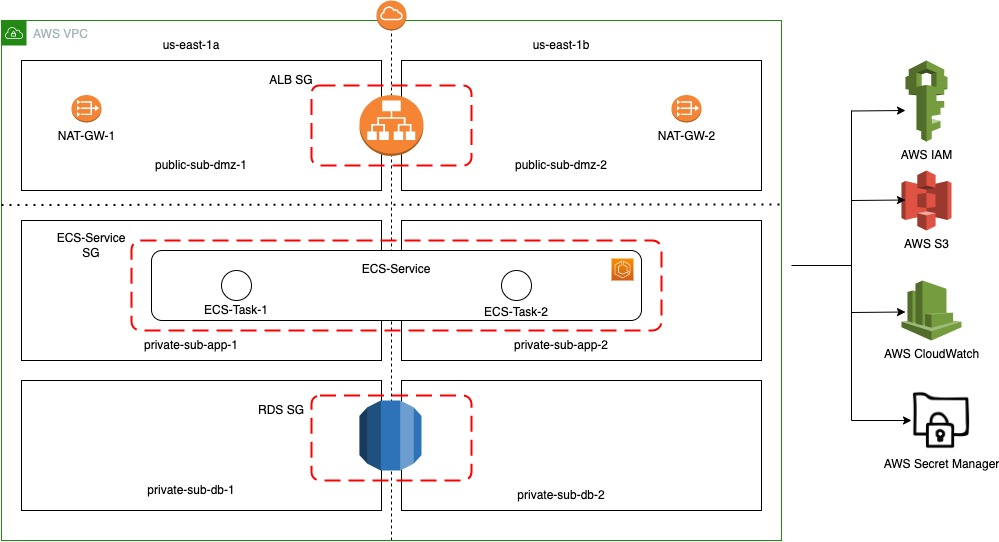
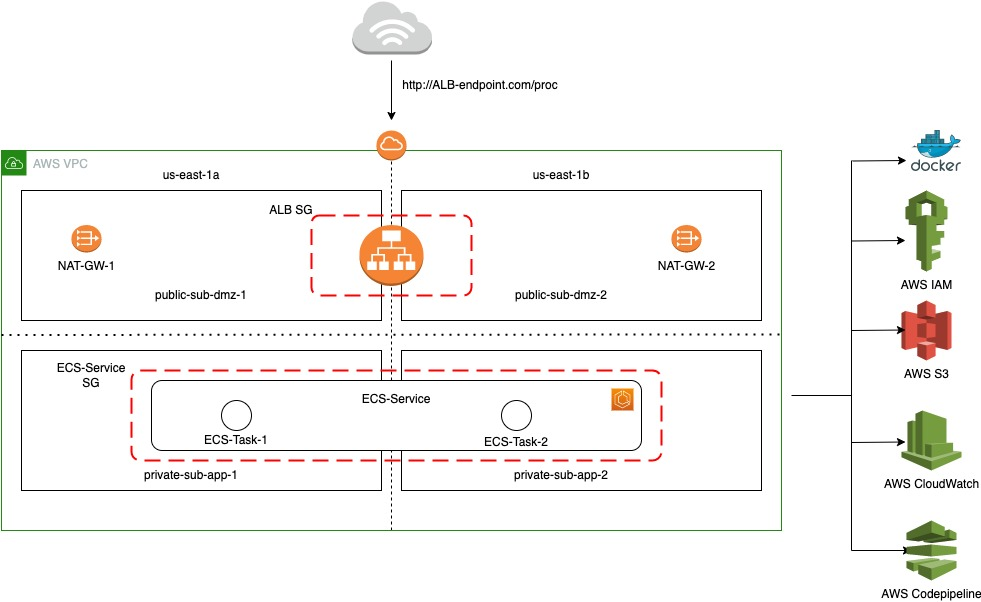
adding documentation chanages

diff --git a/README.md b/README.md
@@ -1,4 +1,4 @@
-# Servian: Tech Challenge
+# Enea: Tech Challenge
 
 ## Solution design and deployment diagram
 
@@ -9,15 +9,18 @@
 - Terraform 
 - GitHub
 - AWS
+- Docker
 ```
 - AWS VPC
 - AWS ECS
 - AWS EC2 (ALB)
 - AWS S3
 - AWS IAM
-- AWS Secret Manager
 - AWS RDS
 - AWS CloudWatch
+- AWS Codepipeline
+- AWS Code Build
+- AWS Code Deploy
 ```
  Above mentioned AWS services are selected to design and deploy this web application considering complexity to design, implement and operational overhead. Basic security features are implemented in this solution at this stage. However, there are things that we can improve for enhancing the security, performance and cost saving aspects which discuss under the improvement section.
 
@@ -29,6 +32,7 @@
  - AWS SecretManager - Secret Manager is used to store and maintain database user password which is referred by the web application.
  - AWS RDS - RDS is used for HA enabled database instance (Multi AZ).
  - AWS Cloudwatch - Cloudwatch is used to handling monitoring metrics, logs and alarms. 
+ - AWS Codepipeline - Code pipeline is used for setup a CI/CD pipeline using AWS Code Build and AWS Code Deploy along with Github
 
 ## How to run?
 
@@ -77,13 +81,22 @@ Please use below mentioned steps to deploy cloud infrasture for this solution on
 1. Clone the GitHub repo.
 2. If you need to update the default values mentioned in the terraform.tfvars file, please update them in terraform.tfvars file.
 ```
-project               = "testapp"
+project               = "samplewebapp"
 environment           = "dev"
 region                = "us-east-1"
 availability_zones    = ["us-east-1a", "us-east-1b"]
-vpc_cidr              = "10.0.0.0/16"
-public_subnets_cidr   = ["10.0.0.0/24", "10.0.1.0/24"] //List of Public subnet cidr range
-private_subnets_cidr  = ["10.0.10.0/24", "10.0.11.0/24"] //List of private subnet cidr range
+vpc_cidr              = "10.92.0.0/16"
+public_subnets_cidr   = ["10.92.0.0/24", "10.92.1.0/24"] //List of Public subnet cidr range
+private_subnets_cidr  = ["10.92.10.0/24", "10.92.11.0/24"] //List of private subnet cidr range
+
+imageurl              = "isuruwic/simple-webservice:v2"  // Base Docker Image for the web app
+codebucket            = "tfstatebucket" // S3 Bucket for storing tfstate file
+codebucket_arn        = "arn:aws:s3:::cicdbucket"  // S3 bucket for CI/CD pipeline related files
+docker_user           = "xxxxxxxxx" // Username for docker.io registry
+docker_password       = "xxxxxxxxx" // Password for docker.io registry
+git_repo              = "isuru-yasantha/sample-web-app" // python web app git repo
+docker_registry_uri   = "isuruwic/simple-webservice" // Docker registy URI
+gitconnect_arn        = "GIT_CONNECTION_ARN" // ARN of the Github version 2 connection in AWS codepipeline
 ```
 2. Provide executable permissions to the env-creation.sh 
 ```chmod +x env-creation.sh```
@@ -111,13 +124,20 @@ This Terraform script creates below resources,
 - ALB and Target group
 - ECS cluster, Tasks and Service
 - RDS instance
-- Secret Manager entry
+- Code pipeline with build and deploy stages
 
 After succesful execution of the script, you will get an ALB DNS endpoint as an output below. Please use the output DNS entry to access the web appliaction using a web browser. 
 
-```Ex: alb_endpoint = "testapp-dev-alb-101191681.us-east-1.elb.amazonaws.com"```
+```Ex: alb_endpoint = "lb_endpoint = "samplewebapp-dev-alb-186999999.us-east-1.elb.amazonaws.com""```
 
-![Blank diagram](https://github.com/isuru-yasantha/assignment/blob/663cb1b24bf99e855eda332eb4563447b680793b/images/app.png)
+Sample CURLS commands with outputs
+
+`` Health Check ``
+``` curl http://samplewebapp-dev-alb-186999999.us-east-1.elb.amazonaws.com --> Healthy%```
+
+`` Sample CURL command to add few numbers``
+``` curl -d '{"sum of the numbers: " : [1, 100, 3,12]}' -H "Content-Type: application/json" -X POST http://samplewebapp-dev-alb-1869999999.us-east-1.elb.amazonaws.com/proc ---> "{\"sum of the numbers: \":{\"sum\":116}}"%```
+
 
 ## Improvements
 
